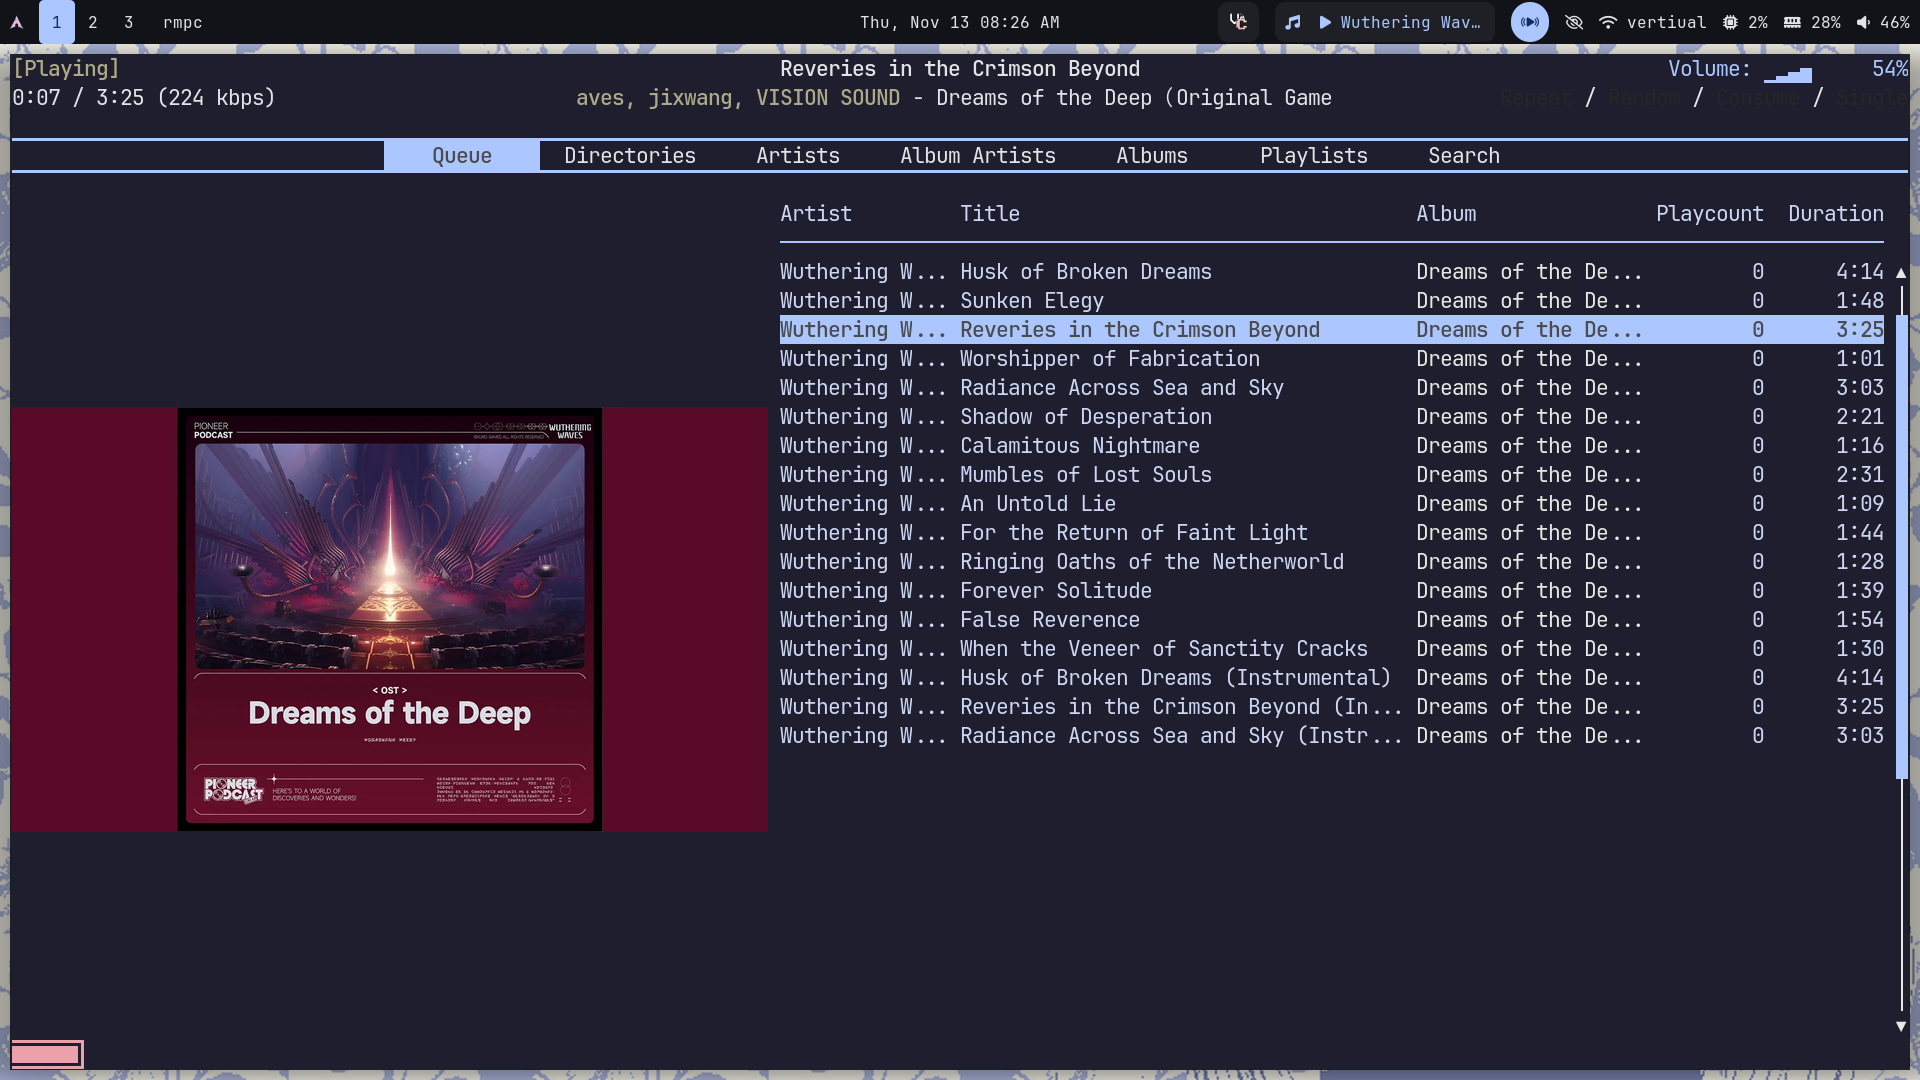
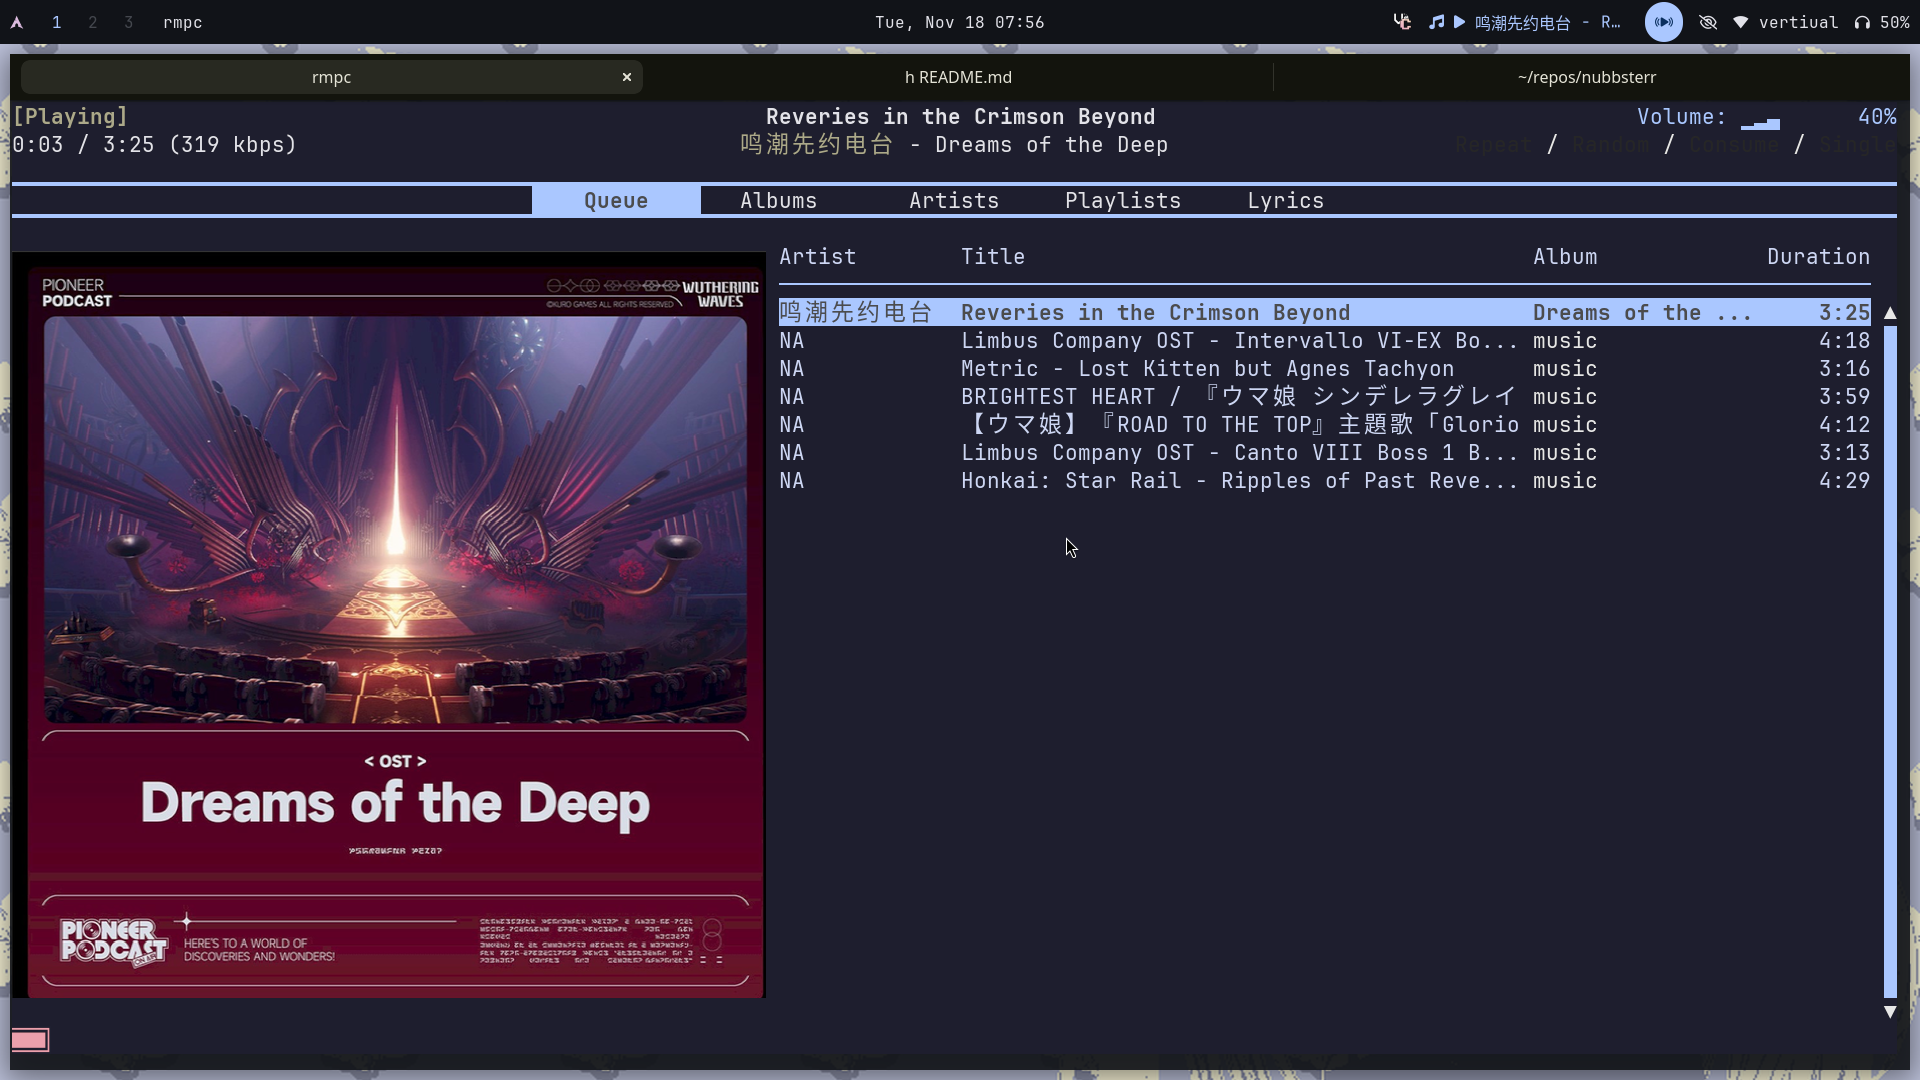
added in the correct showcase images

diff --git a/README.md b/README.md
@@ -5,7 +5,6 @@ I'm a **Computer Engineering** student with a passion for programming, robotics 
 My workflow/setup consists of: 
 * My desktop PC which I use for **VMs, gaming, and recording videos**. I dual boot w/ Arch + Niri and Windows 11 (windows SUCKS it keeps installing updates behind my back). 
     * Arch is currently for notetaking and my daily driver, whilst Windows is for gaming.
-    * may/may not try gentoo one day 
 
 ![rmpc showcase](assets/rmpc.png)
 ![desktop/vicinae showcase](assets/vicinae.png)

diff --git a/dotfiles/NOTE.md b/dotfiles/NOTE.md
@@ -24,7 +24,7 @@ sudo pacman -S niri xdg-desktop-portal-gnome xdg-desktop-portal-gtk swayidle swa
 If you wish to run my rmpc/mpd setup (edit the directories in mpd.conf to your liking):
 
 ```bash
-sudo pacman -S rmpc mpd
+sudo pacman -S rmpc mpd nicotine+
 ```
 
 ```bash
